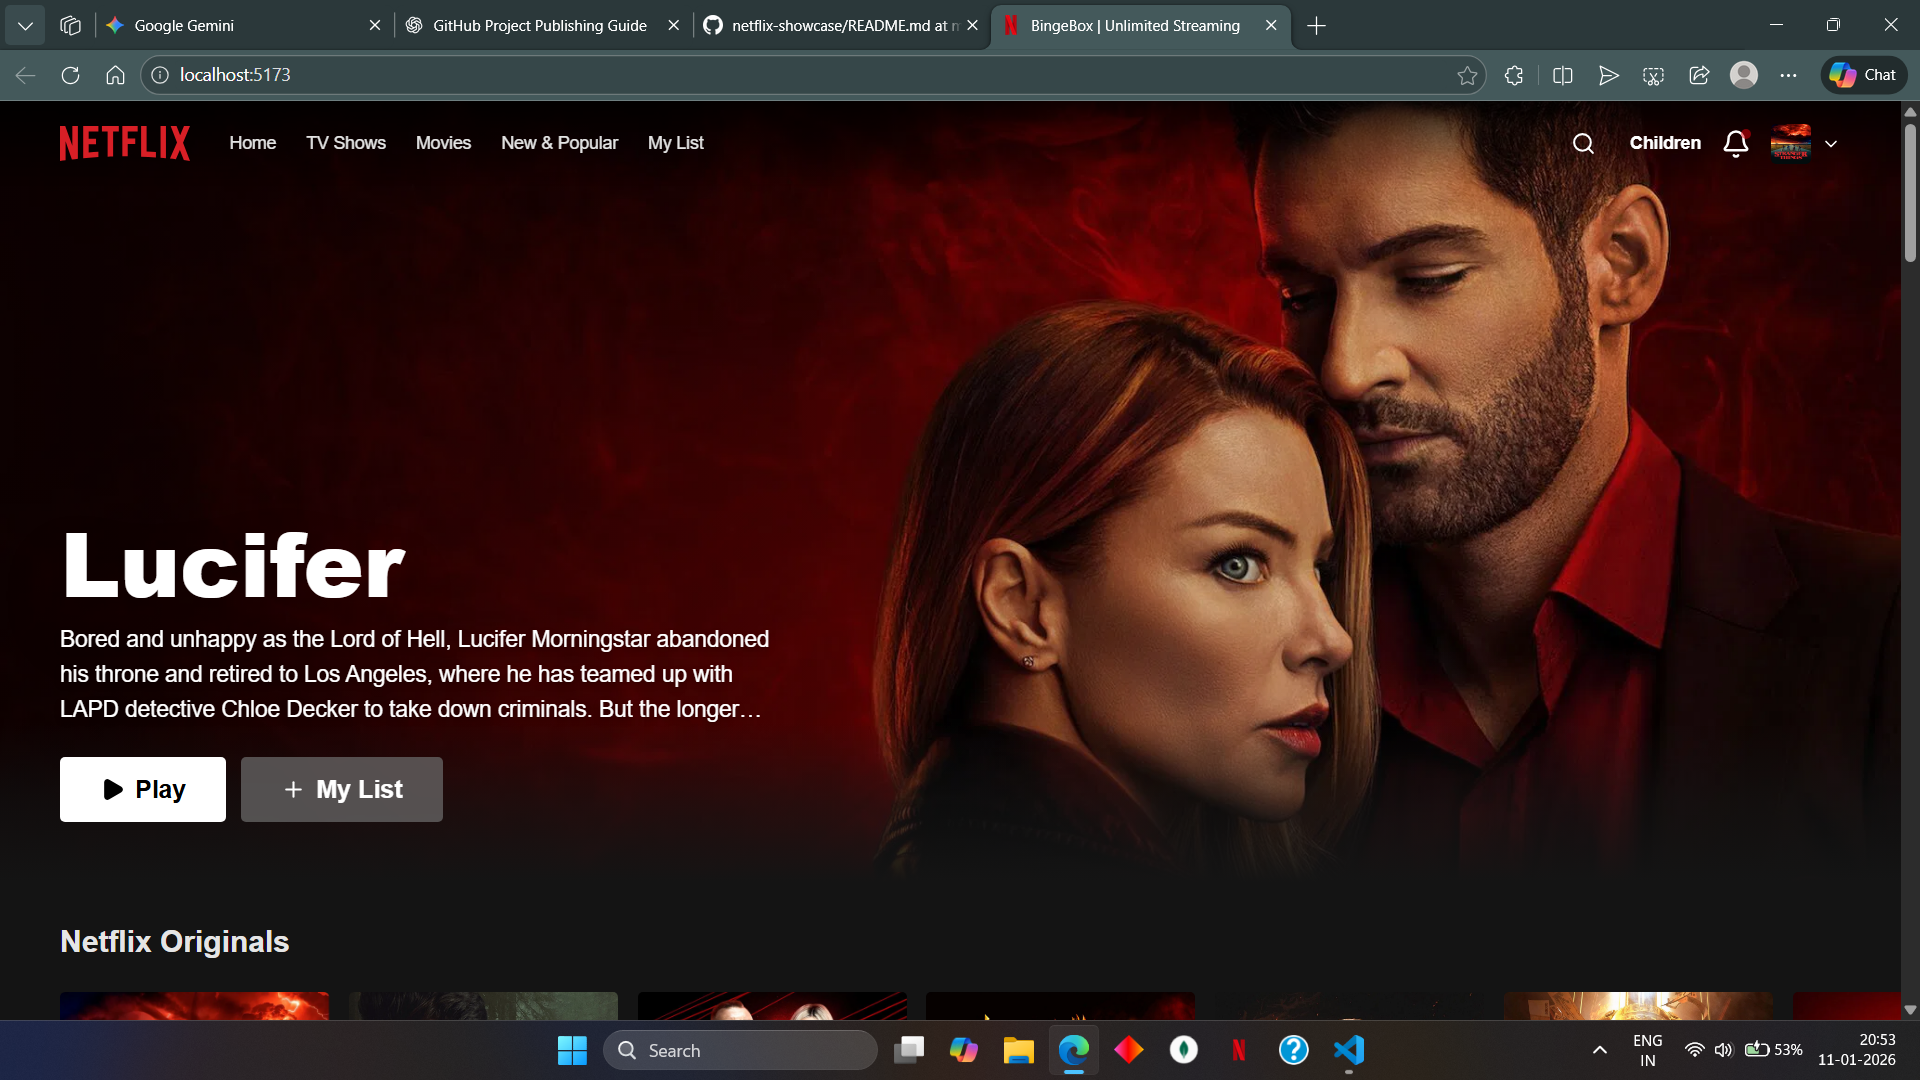
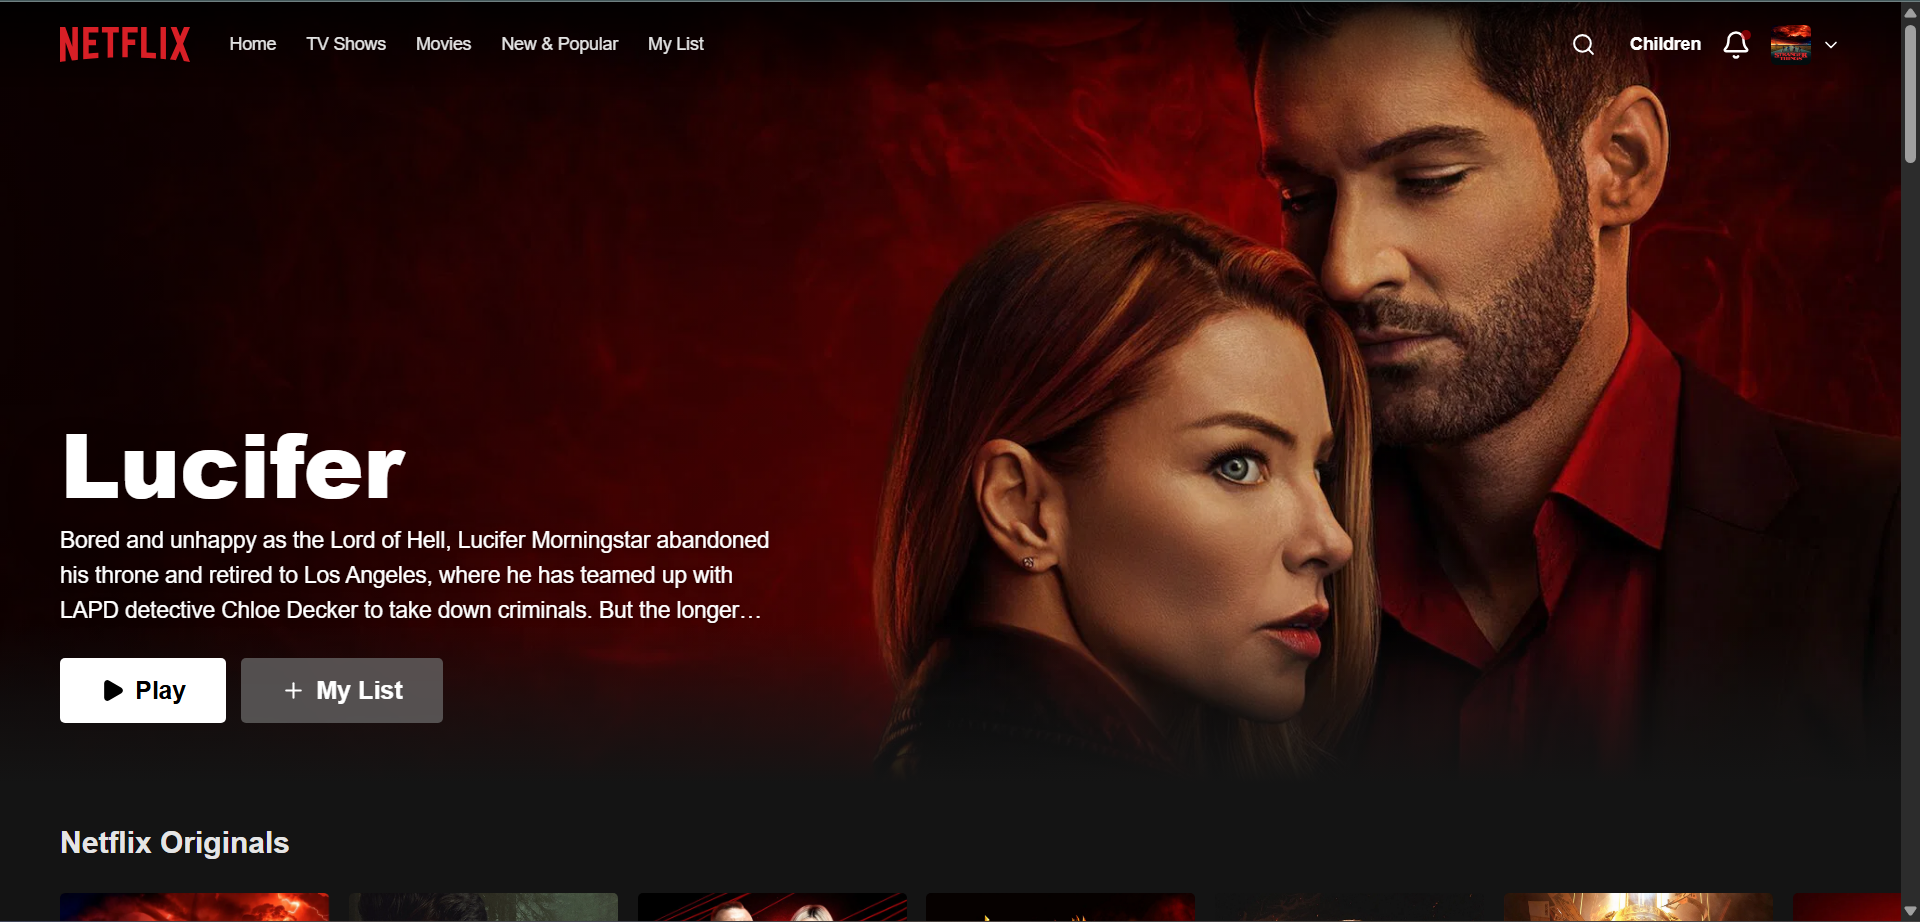
Update screenshots and repository URL in README
Replaced all screenshot images in the assets folder with updated versions and corrected the repository URL in the README to point to the correct GitHub user.

diff --git a/README.md b/README.md
@@ -80,7 +80,7 @@ Engineered with **React 19** and **Vite**, it features a custom physics-based sc
 
 1.  **Clone the repository**
     ```bash
-    git clone [https://github.com/yourusername/bingebox.git](https://github.com/yourusername/bingebox.git)
+    git clone [https://github.com/MAYANK25K/bingebox.git](https://github.com/MAYANK25K/bingebox.git)
     cd bingebox
     ```
 
